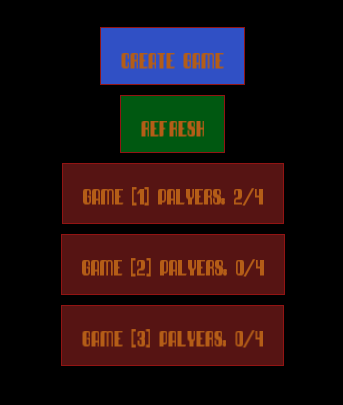
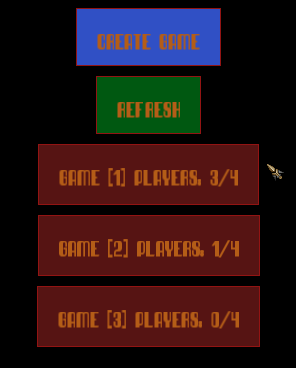
fix typo error

Changed region(s): [[0.1216, 0.0, 0.8818, 0.9565], [0.9122, 0.4484, 0.973, 0.5082]]

diff --git a/08_networking/src/SFML-Book/client/Gui.cpp b/08_networking/src/SFML-Book/client/Gui.cpp
@@ -61,7 +61,7 @@ namespace book
         {
 
             std::stringstream ss;
-            ss<<"Game ["<<game.id<<"] Palyers: "<<game.nbPlayers<<"/"<<game.nbTeams;
+            ss<<"Game ["<<game.id<<"] Players: "<<game.nbPlayers<<"/"<<game.nbTeams;
 
             sfutils::TextButton* button = new sfutils::TextButton(ss.str());
             button->setCharacterSize(20);
